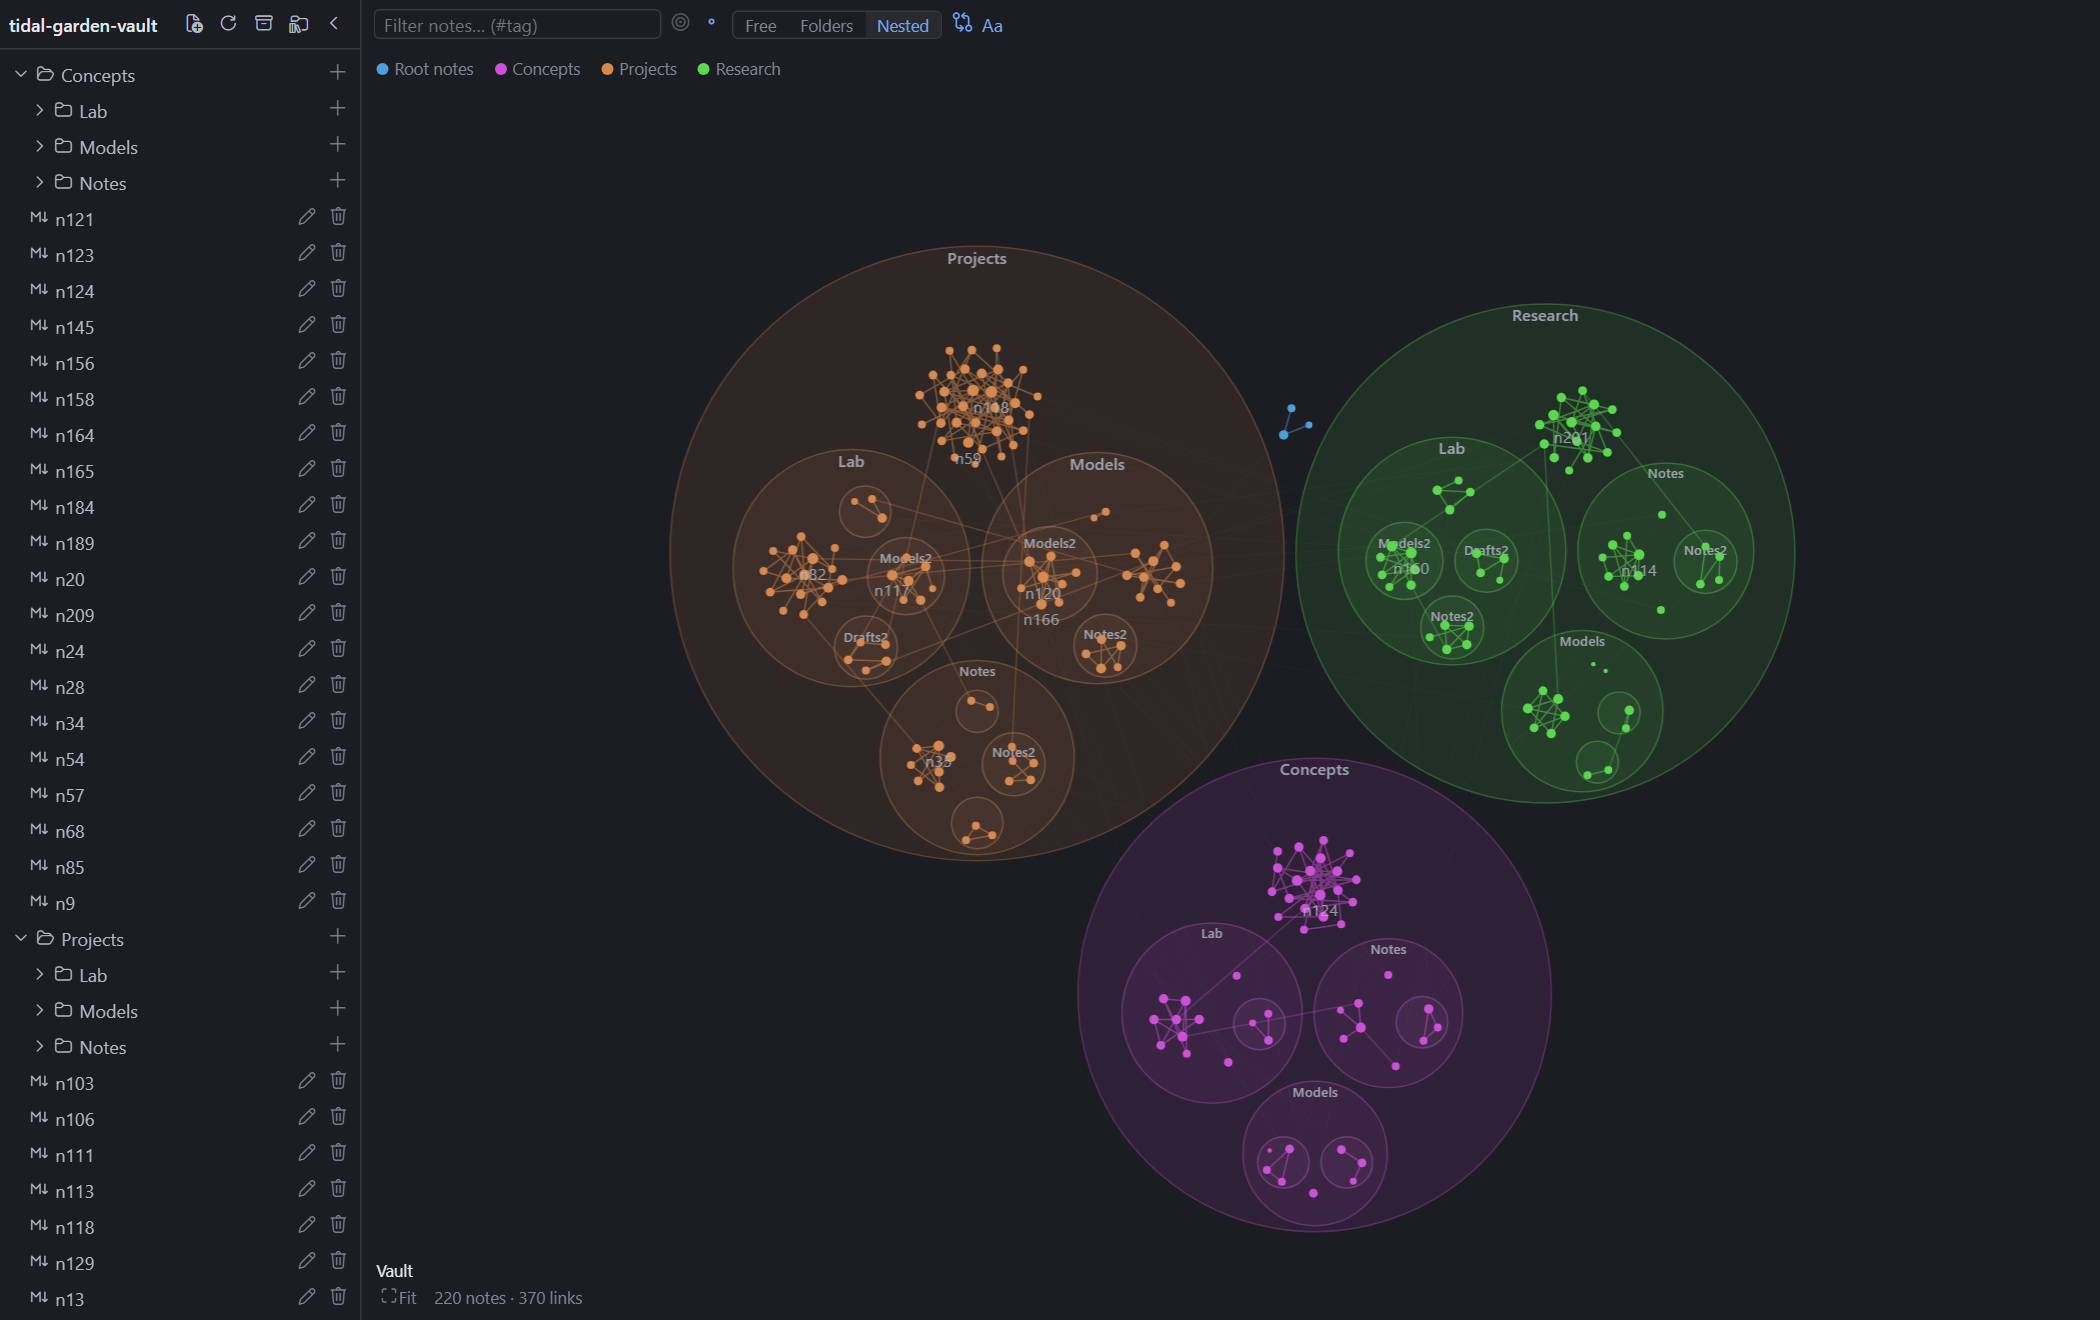
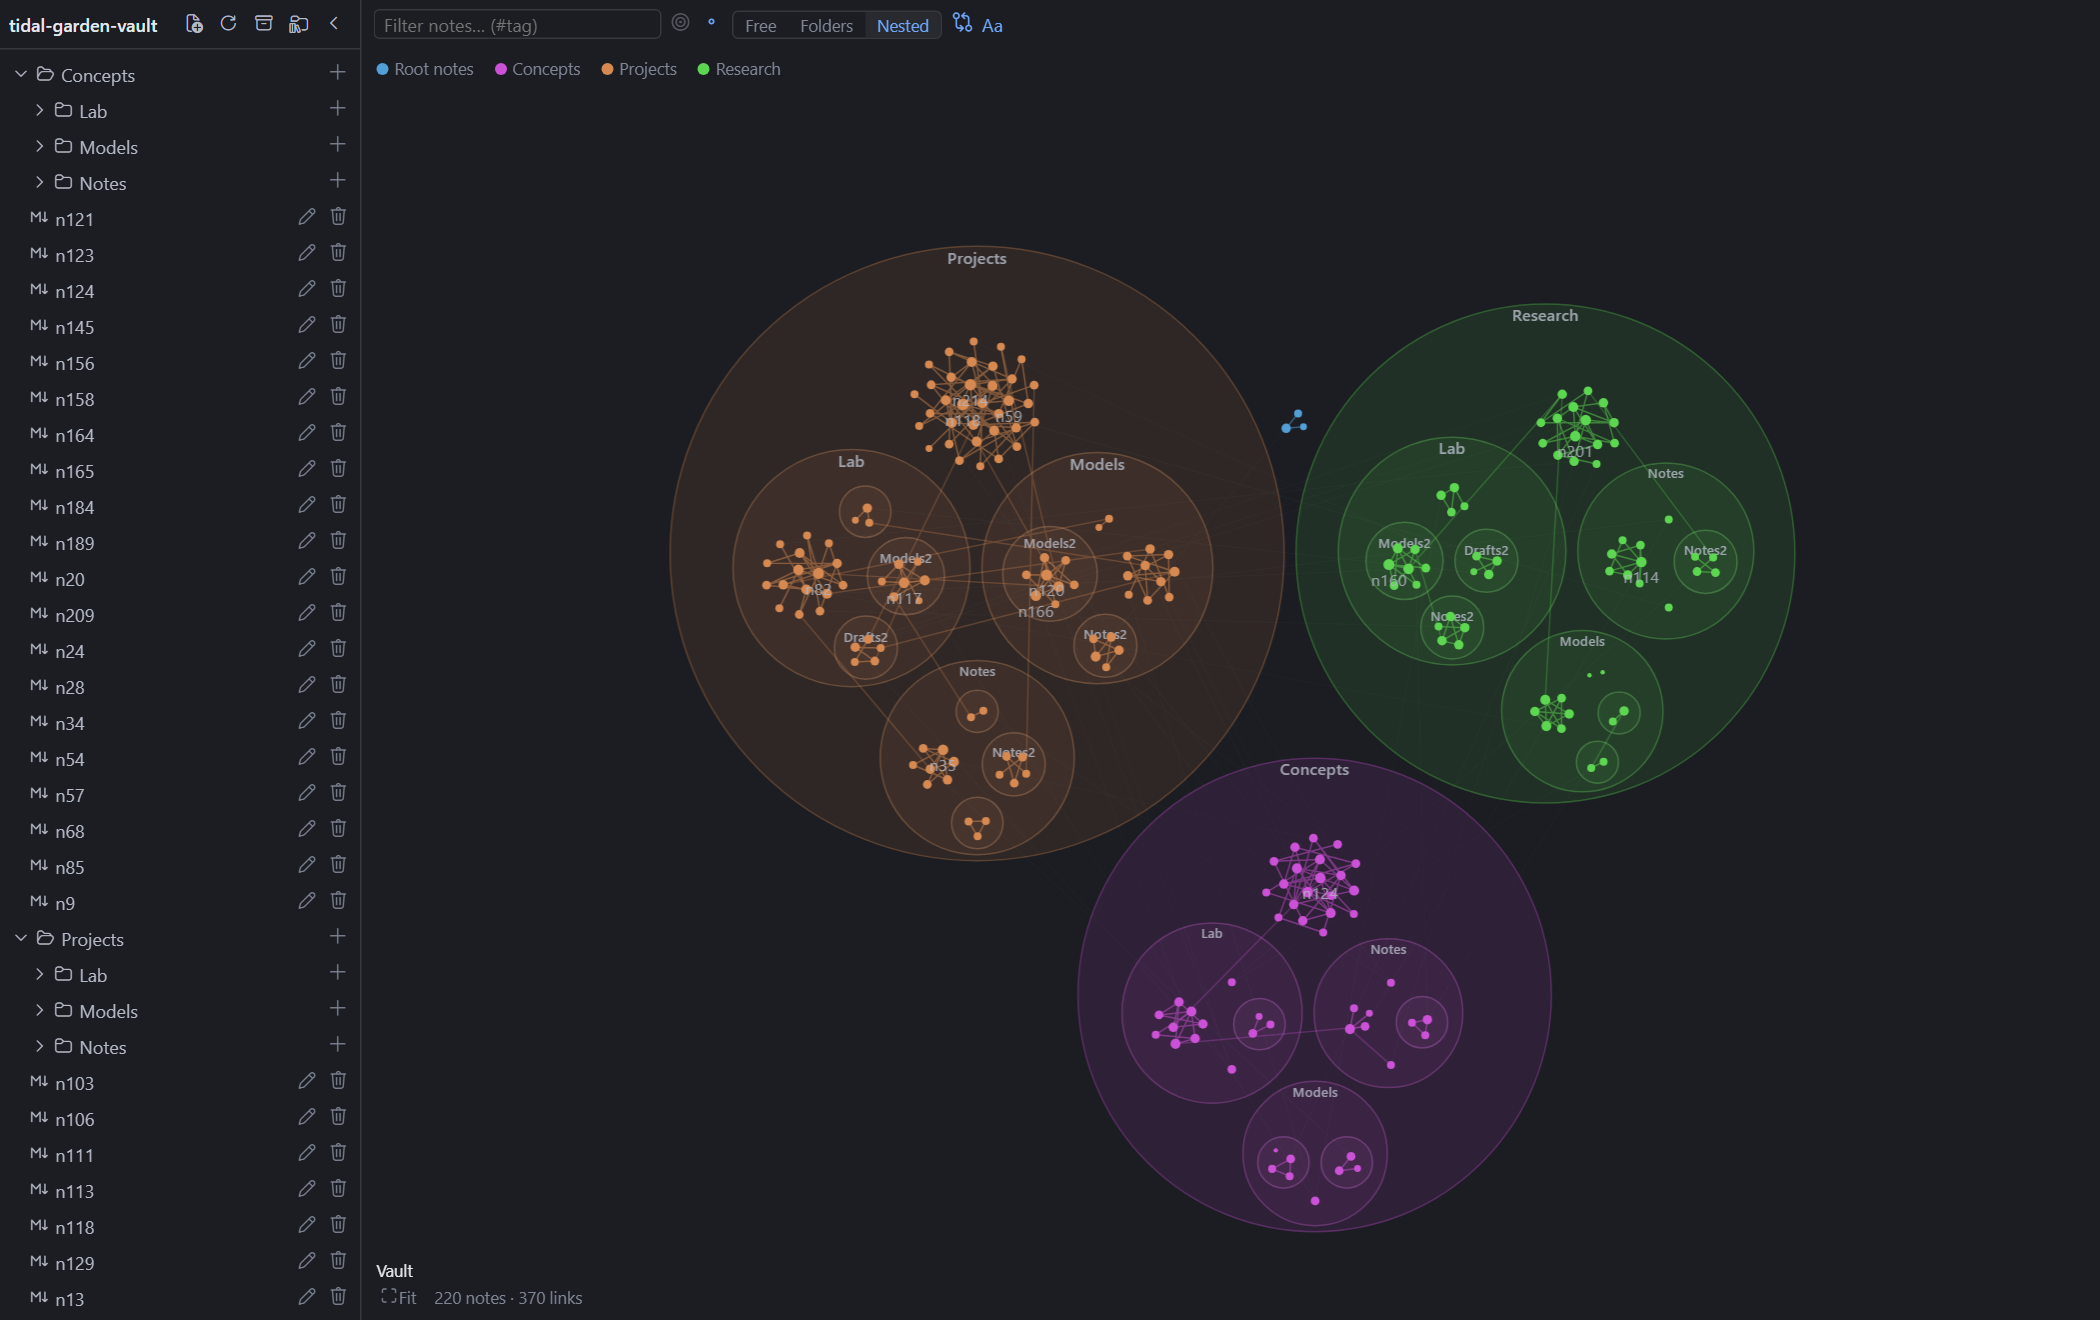
fix: per-compartment repulsion and same-folder links only, so small folders no longer pin notes to their walls; bench reports rim share by folder size

diff --git a/src/layout.ts b/src/layout.ts
@@ -157,34 +157,66 @@ export interface LayoutSpec {
 }
 
 /*
- * Nested-mode tuning, from the boundary-crowding comparison in demo/bench.ts (600 notes, 300 steps; share of
- * notes in the outer 5% of a compartment). With the legacy 0.07 pull and 340 repulsion range, 61% of notes sat on
- * the rim with internal links only and 83% with no links at all: not cross-folder tension, but the repulsion pushing
- * outward against a weak pull. Shortening the range to 60 and pulling at 0.25 brings internal-only to 4% (and no-links
- * to 43%). Cross-folder links add a separate tension (65% at 70% cross-links). A second pass (live vault, notes hugging the
- * rim) found the cross-folder pull — proportional to a distance of hundreds — still beat the centring pull, and that plain
- * repulsion alone leaves 44% on the rim; so cross links are weakened to 0.03 and an inset spring eases notes off the rim
- * beyond half the usable radius (rim share 63% -> 10% at 70% cross-links, 27% -> 0% at 10%; mean radial fraction 0.5-0.6).
- * A third pass (live vault: notes clumped near the middle with the outer ring empty, hubs not central) widened the spacing:
- * weaker, longer intra-folder links (0.12 at 80), stronger and longer-ranged repulsion (250 within 110), the inset spring
- * starting at 0.8 of the usable radius, and a centring pull that grows with degree. On the bench's hub-and-spoke vault,
- * hubs sit at 0.38 of the compartment radius against 0.61 for the notes in the lower half by degree (0.45 vs 0.47 before),
- * and the mean radial fraction rises from 0.50 to 0.56 with 1% on the rim. Same force set, so the per-tick cost is unchanged.
+ * Nested-mode tuning, from the crowding comparisons in demo/bench.ts (settled notes, by compartment size and link
+ * locality). What moves a note inside its compartment, and why each force is there:
+ *  - repulsion, per compartment only (forceCompartmentCharge), weaker for folders of under a dozen notes: a global range let a neighbouring crowd push a small
+ *    folder's notes onto its wall (singletons 90% on the rim), and no one range suits both a 3-note and a 300-note folder;
+ *  - intra-folder links only (sameFolderLinks): a cross-folder link is a spring over hundreds of units, which beats
+ *    every centring force whatever the compartment's size, so it parked notes on the wall facing their partner;
+ *  - a linear pull to the centre, stronger for hubs, so well-connected notes sit inward;
+ *  - an inset spring beyond 0.8 of the usable radius. It matters only for notes with no links, which repulsion alone
+ *    leaves on the rim (90% -> 69% in the bench's no-links case); with links the pull already keeps them in;
+ *  - the hard containment projection, which is the guarantee; none of the above is relied on for it.
+ * Measured on the bench (beyond 0.8 of the usable radius is 36% of a disc's area, so ~36-40% there is a uniform fill, not
+ * rim-hugging): notes of folders with 1-7 notes 0-7%, of 8+ notes 40%; hubs at about 0.3 of the radius, others about 0.7
+ * (uniform fill is 0.67); any share of cross-folder links gives the same result, since they no longer move notes.
  */
 const NESTED_PULL = 0.25
-const NESTED_REPULSION_RANGE = 110
 const NESTED_LINK = 0.12
 const NESTED_LINK_DISTANCE = 80
 const NESTED_CHARGE = 250
+/** A folder with fewer notes than this repels with a proportionally weaker force: a handful of notes need no pushing apart to fill a small disc. */
+const CHARGE_FULL_AT = 12
 /** Hubs are pulled to the centre harder: the centring strength grows by this per square root of degree (capped at 3). */
 const HUB_PULL = 1.5
-const CROSS_LINK = 0.03
 /**
  * Notes are eased off the rim: beyond this share of the usable radius a spring pushes them back, so a settled
  * compartment reads as a filled disc rather than a ring. Gentle by design — the hard projection stays the guarantee.
  */
 const INSET_START = 0.8
 const INSET_STRENGTH = 2
+
+/**
+ * Repulsion within each compartment only. Notes of different folders are already apart by construction (the
+ * compartments are disjoint), so a global many-body force only let a neighbouring crowd shove a small folder's
+ * notes onto its wall. One many-body force per compartment, each over that compartment's notes: cheaper than one
+ * over all of them, and its range is the compartment's own size instead of a number tuned for the largest.
+ */
+function forceCompartmentCharge(geometry: Geometry, strength: number): Force<SimNode, SimLink> {
+  let groups: Force<SimNode, SimLink>[] = []
+
+  const force = (alpha: number) => groups.forEach(group => group(alpha))
+
+  force.initialize = (nodes: SimNode[], random: () => number) => {
+    const byDir = new Map<string, SimNode[]>()
+
+    for (const node of nodes) {
+      byDir.set(node.dir, [...(byDir.get(node.dir) ?? []), node])
+    }
+
+    groups = [...byDir]
+      .filter(([, members]) => members.length > 1)
+      .map(([dir, members]) => {
+        const many = forceManyBody<SimNode>().strength(-strength * Math.min(1, members.length / CHARGE_FULL_AT)).distanceMax(2 * (compartmentOf(geometry, dir)?.r ?? Infinity))
+
+        many.initialize(members, random)
+
+        return many
+      })
+  }
+
+  return force
+}
 
 function forceInset(geometry: Geometry): Force<SimNode, SimLink> {
   let nodes: SimNode[] = []
@@ -217,6 +249,18 @@ function forceInset(geometry: Geometry): Force<SimNode, SimLink> {
   return force
 }
 
+/**
+ * Nested mode lays out only the links inside a folder. A link to another folder is a spring over a distance of
+ * hundreds of units whatever the compartments' size, so it beats every centring force and parks the note on its
+ * wall facing the partner (worst in small folders). Those links are still drawn; they just do not move notes.
+ */
+function sameFolderLinks(nodes: readonly SimNode[], links: readonly SimLink[]): SimLink[] {
+  const dirs = new Map(nodes.map(node => [node.id, node.dir]))
+  const dirOf = (end: SimLink['source']) => dirs.get(typeof end === 'object' ? (end as SimNode).id : String(end))
+
+  return links.filter(link => dirOf(link.source) === dirOf(link.target))
+}
+
 /** The simulation. Nested mode pulls each note toward its compartment's centre instead of its folder's anchor. */
 export function createSimulation(
   nodes: SimNode[],
@@ -237,12 +281,12 @@ export function createSimulation(
     .alpha(alpha)
     .force(
       'link',
-      forceLink<SimNode, SimLink>(links)
+      forceLink<SimNode, SimLink>(nested ? sameFolderLinks(nodes, links) : links)
         .id(node => node.id)
         .distance(nested ? NESTED_LINK_DISTANCE : 48)
-        .strength(link => (nested && (link.source as SimNode).dir !== (link.target as SimNode).dir ? CROSS_LINK : nested ? NESTED_LINK : 0.3))
+        .strength(nested ? NESTED_LINK : 0.3)
     )
-    .force('charge', forceManyBody<SimNode>().strength(nested ? -NESTED_CHARGE : -130).distanceMax(nested ? NESTED_REPULSION_RANGE : 340))
+    .force('charge', nested ? forceCompartmentCharge(geometry, NESTED_CHARGE) : forceManyBody<SimNode>().strength(-130).distanceMax(340))
     .force('collide', forceCollide<SimNode>().radius(node => radiusOf(node) + COLLIDE_PAD))
     .force('x', forceX<SimNode>(aim('x')).strength(strength))
     .force('y', forceY<SimNode>(aim('y')).strength(strength))

diff --git a/desktop/plugin.js b/desktop/plugin.js
@@ -3546,14 +3546,29 @@ var fromOffset = (compartment, u, v) => [
   compartment.y + v * compartment.r
 ];
 var NESTED_PULL = 0.25;
-var NESTED_REPULSION_RANGE = 110;
 var NESTED_LINK = 0.12;
 var NESTED_LINK_DISTANCE = 80;
 var NESTED_CHARGE = 250;
+var CHARGE_FULL_AT = 12;
 var HUB_PULL = 1.5;
-var CROSS_LINK = 0.03;
 var INSET_START = 0.8;
 var INSET_STRENGTH = 2;
+function forceCompartmentCharge(geometry, strength) {
+  let groups = [];
+  const force = (alpha) => groups.forEach((group) => group(alpha));
+  force.initialize = (nodes, random) => {
+    const byDir = /* @__PURE__ */ new Map();
+    for (const node of nodes) {
+      byDir.set(node.dir, [...byDir.get(node.dir) ?? [], node]);
+    }
+    groups = [...byDir].filter(([, members]) => members.length > 1).map(([dir, members]) => {
+      const many = manyBody_default().strength(-strength * Math.min(1, members.length / CHARGE_FULL_AT)).distanceMax(2 * (compartmentOf(geometry, dir)?.r ?? Infinity));
+      many.initialize(members, random);
+      return many;
+    });
+  };
+  return force;
+}
 function forceInset(geometry) {
   let nodes = [];
   const force = (alpha) => {
@@ -3577,6 +3592,11 @@ function forceInset(geometry) {
   force.initialize = (list) => void (nodes = list);
   return force;
 }
+function sameFolderLinks(nodes, links) {
+  const dirs = new Map(nodes.map((node) => [node.id, node.dir]));
+  const dirOf = (end) => dirs.get(typeof end === "object" ? end.id : String(end));
+  return links.filter((link) => dirOf(link.source) === dirOf(link.target));
+}
 function createSimulation(nodes, links, { cluster, folders, geometry }, alpha) {
   const anchors = folderAnchors(folders, cluster);
   const nested = cluster === "nested";
@@ -3585,8 +3605,8 @@ function createSimulation(nodes, links, { cluster, folders, geometry }, alpha) {
   const aim = (axis) => (node) => nested ? compartmentOf(geometry, node.dir)?.[axis] ?? 0 : anchors.get(node.folder)?.[axis] ?? 0;
   const sim = simulation_default(nodes).alpha(alpha).force(
     "link",
-    link_default(links).id((node) => node.id).distance(nested ? NESTED_LINK_DISTANCE : 48).strength((link) => nested && link.source.dir !== link.target.dir ? CROSS_LINK : nested ? NESTED_LINK : 0.3)
-  ).force("charge", manyBody_default().strength(nested ? -NESTED_CHARGE : -130).distanceMax(nested ? NESTED_REPULSION_RANGE : 340)).force("collide", collide_default().radius((node) => radiusOf(node) + COLLIDE_PAD)).force("x", x_default2(aim("x")).strength(strength)).force("y", y_default2(aim("y")).strength(strength));
+    link_default(nested ? sameFolderLinks(nodes, links) : links).id((node) => node.id).distance(nested ? NESTED_LINK_DISTANCE : 48).strength(nested ? NESTED_LINK : 0.3)
+  ).force("charge", nested ? forceCompartmentCharge(geometry, NESTED_CHARGE) : manyBody_default().strength(-130).distanceMax(340)).force("collide", collide_default().radius((node) => radiusOf(node) + COLLIDE_PAD)).force("x", x_default2(aim("x")).strength(strength)).force("y", y_default2(aim("y")).strength(strength));
   return nested ? sim.force("inset", forceInset(geometry)) : sim;
 }
 

diff --git a/demo/bench.ts b/demo/bench.ts
@@ -167,6 +167,37 @@ function crowding(label: string, options: SyntheticOptions, steps = 300, hubs = 
   console.log(`${label.padEnd(34)} notes in big compartments ${total}: at rim ${((100 * rim) / total).toFixed(0)}%, mean radial fraction ${(mean / total).toFixed(2)}`)
 }
 
+/** Rim share (beyond 0.8 of the usable radius) by compartment size: small compartments have almost no room, so any steady pull reaches the wall. */
+function bySize(label: string, options: SyntheticOptions, steps = 300) {
+  const { geometry, nodes, sim } = rig(syntheticGraph(options), 'nested')
+
+  for (let i = 0; i < steps; i++) {
+    sim.tick()
+    containAll(nodes, geometry)
+  }
+
+  const perDir = new Map<string, number>()
+
+  nodes.forEach(node => perDir.set(node.dir, (perDir.get(node.dir) ?? 0) + 1))
+
+  const classes = { '1': [0, 0], '2-3': [0, 0], '4-7': [0, 0], '8+': [0, 0] } as Record<string, [number, number]>
+
+  for (const node of nodes) {
+    const n = perDir.get(node.dir)!
+    const comp = compartmentOf(geometry, node.dir)!
+    const frac = Math.hypot(node.x - comp.x, node.y - comp.y) / Math.max(comp.r - radiusOf(node), 1e-9)
+    const cls = classes[n === 1 ? '1' : n < 4 ? '2-3' : n < 8 ? '4-7' : '8+']!
+
+    cls[1]++
+    cls[0] += frac > 0.8 ? 1 : 0
+  }
+
+  console.log(
+    `${label.padEnd(34)} beyond 0.8 of room, by notes per folder: ` +
+      Object.entries(classes).map(([name, [rim, total]]) => `${name}: ${total ? Math.round((100 * rim) / total) : '-'}% (n=${total})`).join(', ')
+  )
+}
+
 const base = { branching: 3, depth: 3, links: 2, skew: 0.7 }
 
 console.log('--- boundary crowding (nested, 300 settled steps)')
@@ -175,6 +206,10 @@ crowding('10% cross-folder', { ...base, crossFraction: 0.1, notes: 600, seed: 2 
 crowding('70% cross-folder', { ...base, crossFraction: 0.7, notes: 600, seed: 2 })
 crowding('hub-and-spoke, 10% cross', { ...base, crossFraction: 0.1, notes: 600, seed: 2 }, 300, true)
 crowding('no links at all', { ...base, links: 0, notes: 600, seed: 2 })
+
+console.log('--- small compartments')
+bySize('30% cross, many small folders', { ...base, branching: 4, crossFraction: 0.3, depth: 3, notes: 300, seed: 3, skew: 1.2 })
+bySize('10% cross, many small folders', { ...base, branching: 4, crossFraction: 0.1, depth: 3, notes: 300, seed: 3, skew: 1.2 })
 
 console.log('--- cost (manual ticks; 60-tick means)')
 timing('N=500', { ...base, notes: 500 })

diff --git a/src/layout.test.ts b/src/layout.test.ts
@@ -86,8 +86,16 @@ describe('whole-note containment', () => {
   }
 
   it('is violated by bare sim.tick(), which dispatches no tick event: the harness must run the same containment as the live view', () => {
-    const { geometry, nodes, sim } = rig(fixtures['heavy cross-folder links']!)
+    const { geometry, nodes, sim } = rig(fixtures['nested siblings']!)
     let worst = 0
+
+    // The forces keep notes in on their own, so shove them outward: only the containment step can stop that.
+    for (const node of nodes) {
+      const comp = compartmentOf(geometry, node.dir)!
+
+      node.vx = (node.x - comp.x || 1) * 5
+      node.vy = (node.y - comp.y) * 5
+    }
 
     for (let i = 0; i < 30; i++) {
       sim.tick()

diff --git a/docs/nested-folder-regions.md b/docs/nested-folder-regions.md
@@ -253,3 +253,11 @@ Every window focus triggered a full rescan that built a new graph object, which 
 A folder that has subfolders no longer draws its notes' compartment: the notes float among the subfolders' discs, and the compartment stays only as the packed, invisible reservation that sizes the space and bounds them (so geometry, containment and persisted offsets are unchanged, and the change is a drawing rule, not a layout rule). A folder with no subfolders is still just its named disc. The one exception is the vault root's compartment, outlined dashed while the root notes are hidden, as the sign of that. Notes of a folder are therefore not fenced off from its subfolder discs visually, only by the reservation; if notes ever need to use the gaps between subfolder discs, that is a change to the containment region (a disc minus its children), not to the packing.
 
 Spacing: see the third-pass paragraph in `src/layout.ts`. The bench has a hub-and-spoke case and reports hub versus leaf radial fraction and nearest-neighbour spacing.
+
+### Rim-hugging in small folders (fourth pass; supersedes the force details above)
+
+The live vault still showed notes on the walls of small folders. The bench's blind spot was that it only looked at compartments of eight or more notes; it now also reports rim share by notes per folder. With small folders included, singletons were 86-90% on the wall. Two causes, found by removing each in turn: the many-body repulsion was global (range 110), so a neighbouring crowd pushed a small folder's notes onto its wall; and cross-folder links, as springs over hundreds of units, beat the centring pull whatever the compartment's size.
+
+Both are removed rather than retuned. Repulsion is now one many-body force per compartment (`forceCompartmentCharge`), ranged to the compartment's own size and weaker for folders of fewer than a dozen notes (at full strength a pair of notes is pushed to opposite walls); the force simulation uses only same-folder links (`sameFolderLinks`), while every link is still drawn. The result no longer depends on the share of cross-folder links, singletons sit at the centre, and the force step is cheaper (about 11 vs 17 ms per tick at 2,000 notes, 30 vs 50 at 5,000 on the bench machine; headless Node, not the Hermes webview). The tuning comment in `src/layout.ts` is the current statement of what each force is for; the inset spring remains only for notes with no links.
+
+Existing saved layouts are restored and re-settled gently on the next open, so they move toward the new arrangement rather than snapping to it.
